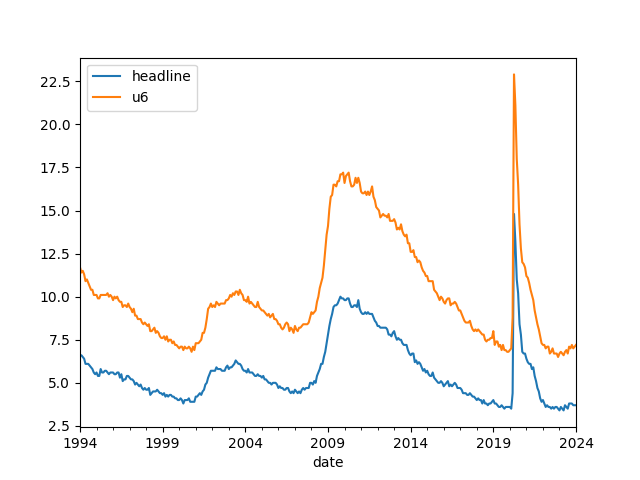
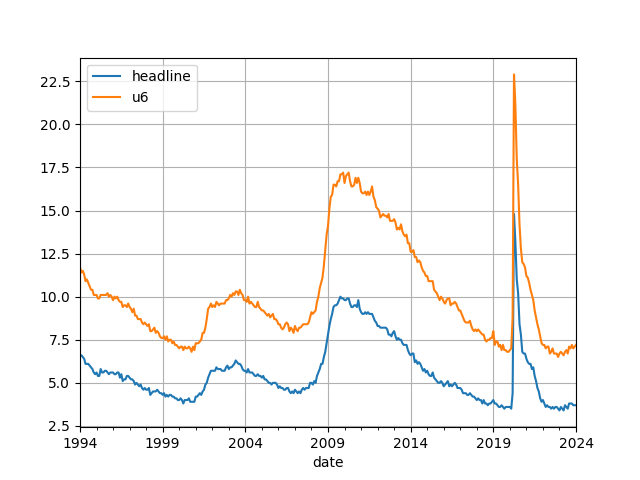
add grid to unemployment

diff --git a/analysis.py b/analysis.py
@@ -1,6 +1,5 @@
 import pandas as pd
 from datetime import datetime
-import matplotlib
 
 # read data
 recession_data = pd.read_csv('data/recession_data.csv')
@@ -75,7 +74,7 @@ def question_two_a():
     # save to file
     ax.get_figure().savefig('answers/inflation.png')
 
-question_two_a()
+# question_two_a()
     
 def question_two_b():
     # read data
@@ -119,9 +118,12 @@ def question_three_a():
     u6_unemployment['date'] = pd.to_datetime(u6_unemployment['date'])
     ax = headline_unemployment.plot(x='date', y='value', label='headline')
     u6_unemployment.plot(x='date', y='value', ax=ax, label='u6')
+    # add grid
+    ax.grid()
+    # save to file
     ax.get_figure().savefig('answers/unemployment.png')
 
-# question_three()
+# question_three_a()
     
 def question_three_b():
     # read data
